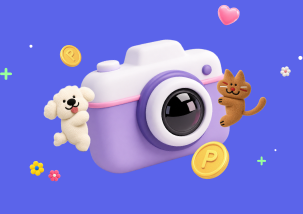
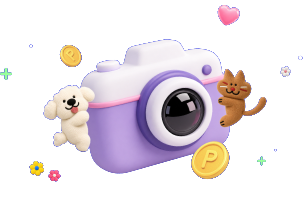
style: resolve background clipping and overlay issues on camera guide screen

diff --git a/lib/features/camera/camera_mission_guide_screen.dart b/lib/features/camera/camera_mission_guide_screen.dart
@@ -1,4 +1,5 @@
 import 'package:flutter/material.dart';
+import 'package:flutter_svg/flutter_svg.dart';
 import '../../core/widgets/popup_header.dart';
 import '../../core/widgets/bullit_text.dart';
 import 'camera_screen.dart';
@@ -23,31 +24,28 @@ class CameraMissionGuideScreen extends StatelessWidget {
               width: double.infinity,
               color: const Color(0xFF5B64EA), // Figma 파란색배경
               child: Stack(
+                clipBehavior: Clip.none,
                 children: [
-                  // 그라데이션 동그라미 데코레이션 1
+                  // 그라데이션 동그라미 데코레이션 1 (Figma Ellipse 1595)
                   Positioned(
-                    left: -130,
-                    top: 267,
-                    child: Container(
+                    left: MediaQuery.of(context).size.width / 2 - 325,
+                    top: 267.25,
+                    child: SvgPicture.asset(
+                      'assets/images/banner/ellipse1595.svg',
                       width: 650,
                       height: 360,
-                      decoration: BoxDecoration(
-                        shape: BoxShape.circle,
-                        color: Colors.white.withValues(alpha: 0.05),
-                      ),
+                      fit: BoxFit.fill,
                     ),
                   ),
-                  // 그라데이션 동그라미 데코레이션 2
+                  // 그라데이션 동그라미 데코레이션 2 (Figma Ellipse 1593)
                   Positioned(
-                    left: MediaQuery.of(context).size.width / 2 - 141.5,
-                    top: 73,
-                    child: Container(
-                      width: 283,
-                      height: 283,
-                      decoration: BoxDecoration(
-                        shape: BoxShape.circle,
-                        color: Colors.white.withValues(alpha: 0.05),
-                      ),
+                    left: MediaQuery.of(context).size.width / 2 - 225.5,
+                    top: -10.6,
+                    child: SvgPicture.asset(
+                      'assets/images/banner/ellipse1593.svg',
+                      width: 451,
+                      height: 451,
+                      fit: BoxFit.fill,
                     ),
                   ),
 
